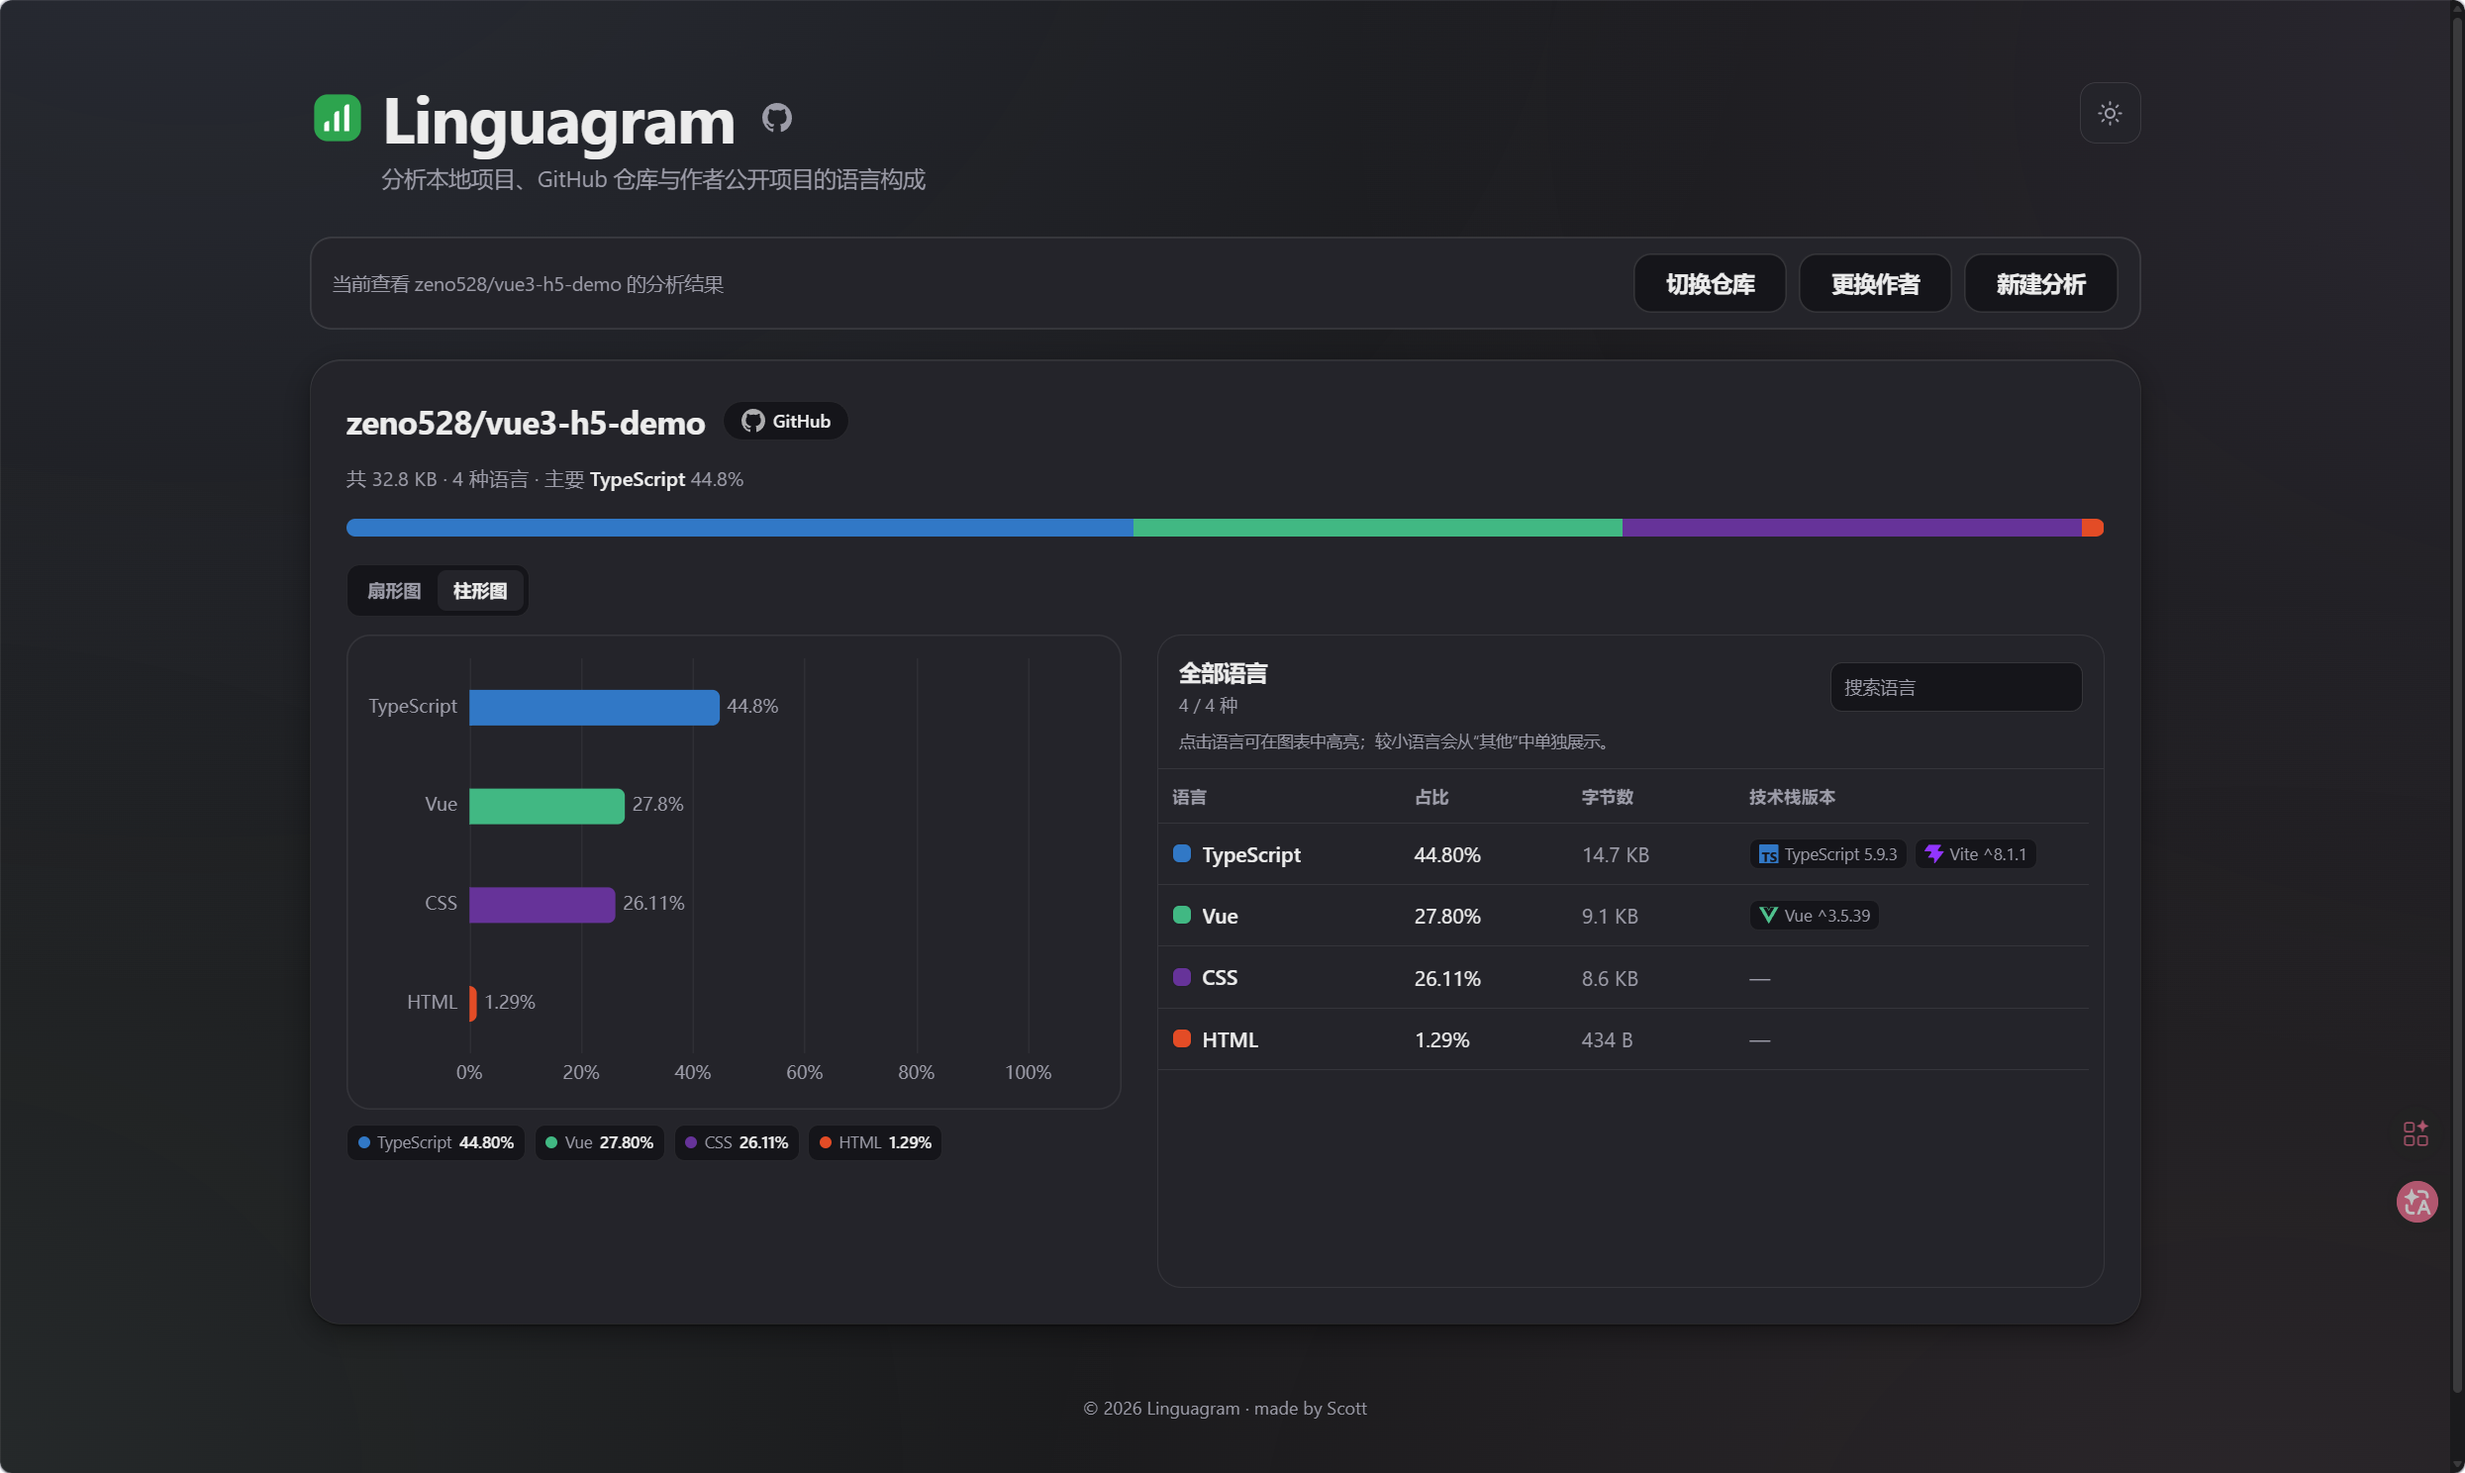
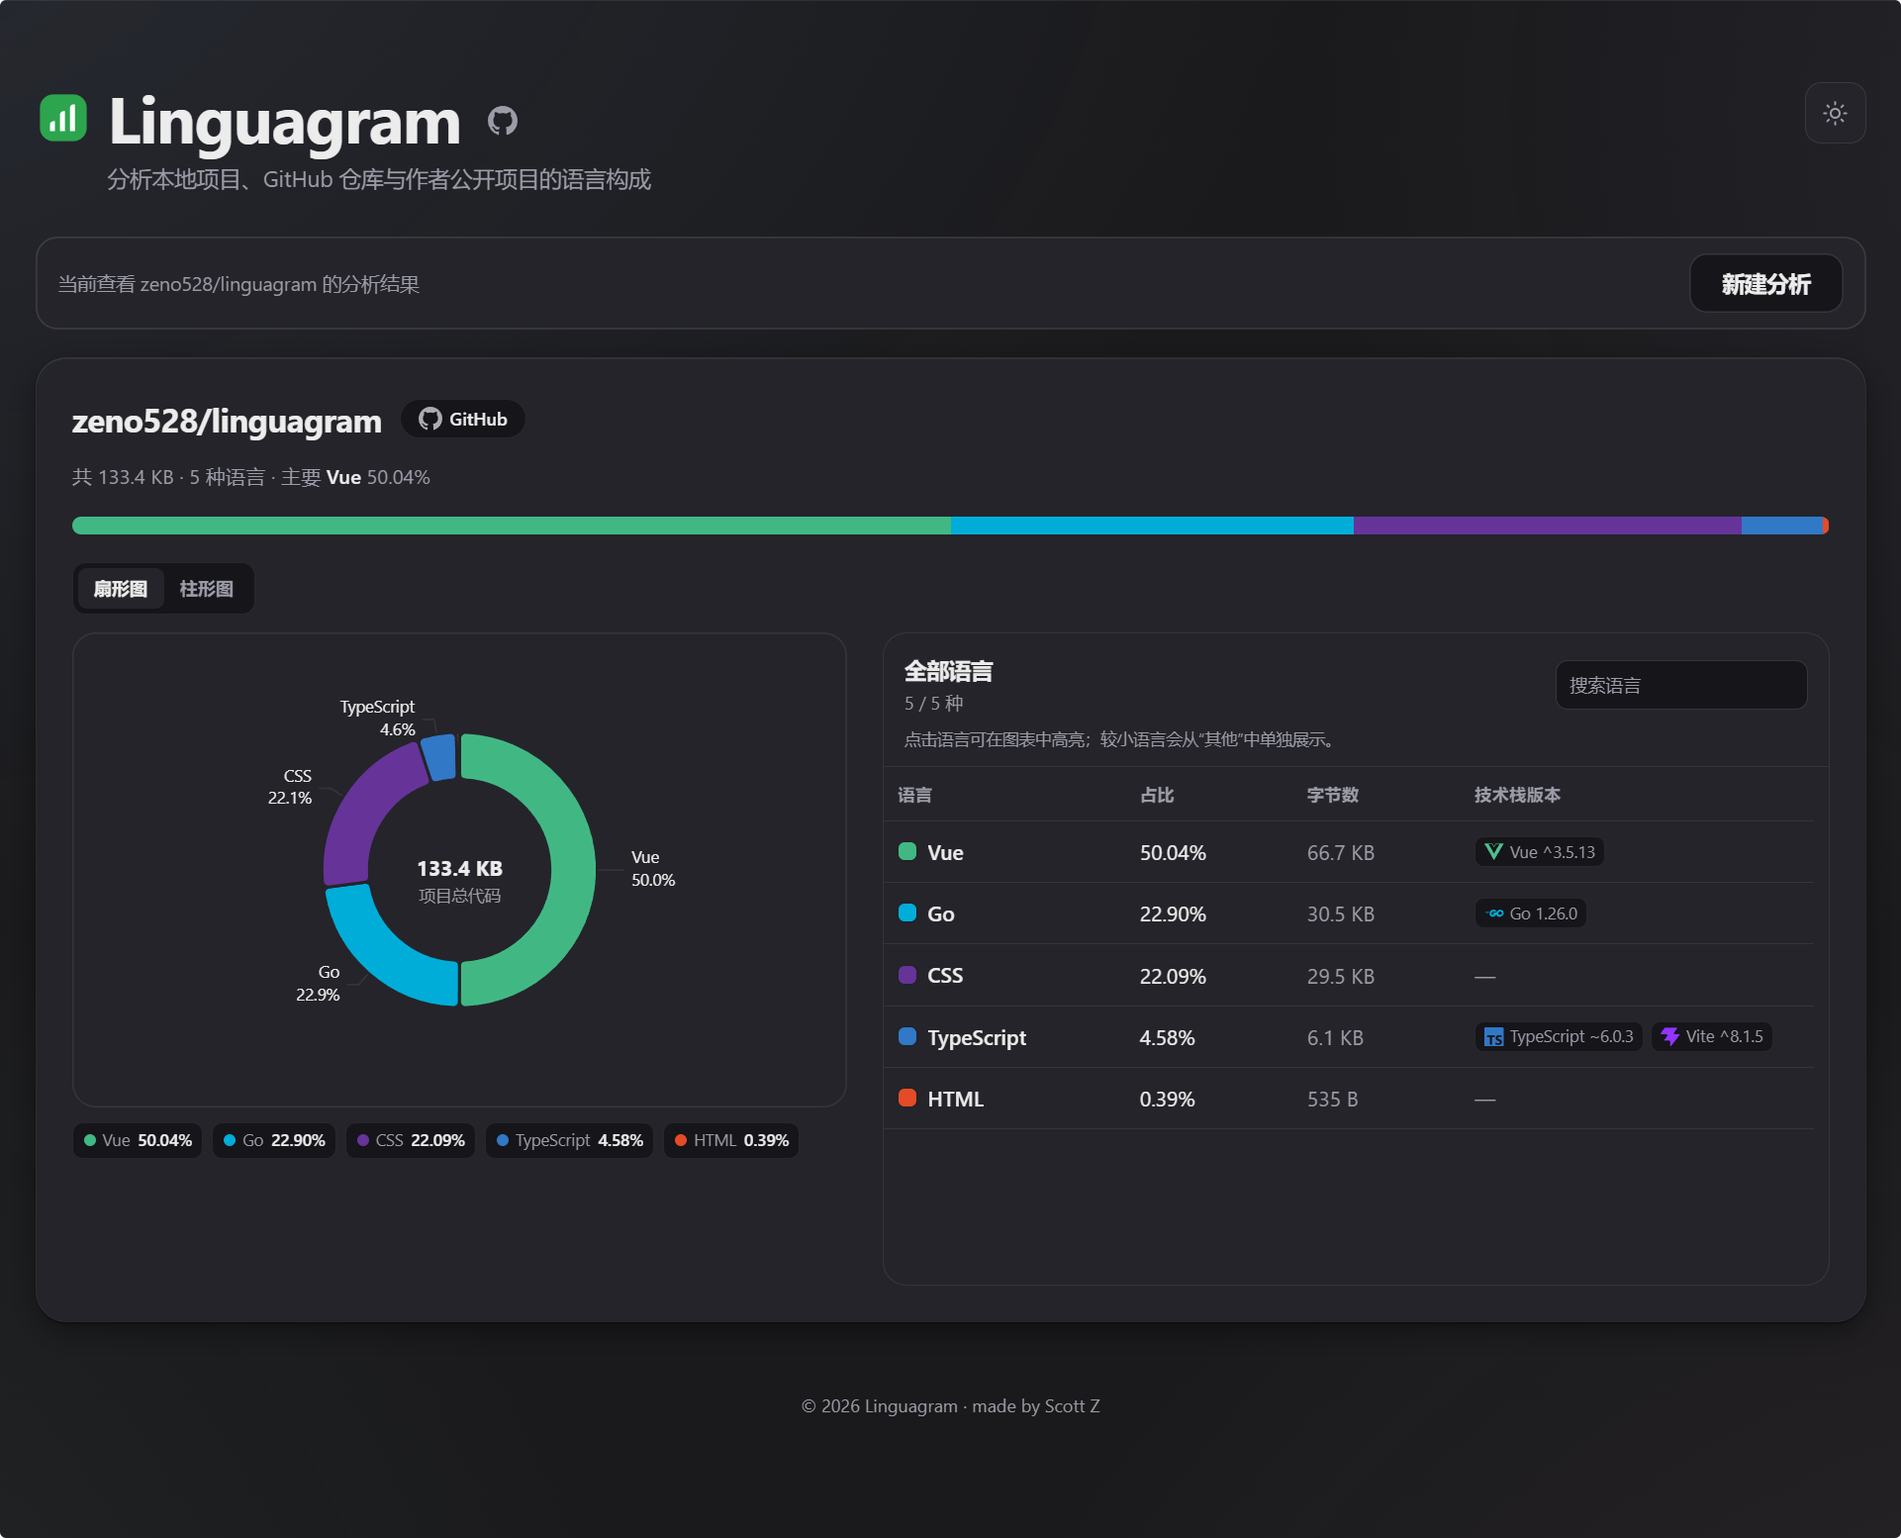
✨ feat(frontend): 增强图表中心显示逻辑，支持选中语言动态展示并注册标题组件
- 动态导入并注册 ECharts TitleComponent，支持图表标题配置。
- 重构饼图中心文本显示，改为展示所选语言的名称和百分比，而非固定主要语言。
- 移除冗余的 labelLayout 配置，简化渲染代码。

🔧 chore(docs): 更新暗色和亮色预览图片，减小文件体积

- 优化预览图片质量，docs/preview-dark.png 与 docs/preview-light.png 文件大小分别降低约 48% 与 46%。

diff --git a/frontend/src/App.vue b/frontend/src/App.vue
@@ -162,13 +162,13 @@ function loadEcharts() {
   if (!echartsPromise) {
     echartsPromise = (async () => {
       const echarts = await import('echarts/core')
-      const [{ PieChart, BarChart }, { TooltipComponent, GridComponent }, { CanvasRenderer }] =
+      const [{ PieChart, BarChart }, { TitleComponent, TooltipComponent, GridComponent }, { CanvasRenderer }] =
         await Promise.all([
           import('echarts/charts'),
           import('echarts/components'),
           import('echarts/renderers'),
         ])
-      echarts.use([PieChart, BarChart, TooltipComponent, GridComponent, CanvasRenderer])
+      echarts.use([PieChart, BarChart, TitleComponent, TooltipComponent, GridComponent, CanvasRenderer])
       return echarts
     })()
   }
@@ -902,14 +902,18 @@ async function renderChart() {
     return
   }
 
-  const primaryLanguage = displayData.reduce((primary, item) =>
-    item.value > primary.value ? item : primary,
-  )
+  const selectedLanguage = selectedChartLanguage.value
+    ? displayData.find((item) => item.name === selectedChartLanguage.value)
+    : null
+  const centerText = selectedLanguage ? selectedLanguage.name : formatBytes(result.value.totalBytes)
+  const centerSubtext = selectedLanguage
+    ? `${selectedLanguage.value.toFixed(2)}%`
+    : '项目总代码'
 
   chart.setOption({
     title: {
-      text: `${langs.length} 种语言`,
-      subtext: `主要 ${primaryLanguage.name} · ${primaryLanguage.value.toFixed(2)}%`,
+      text: centerText,
+      subtext: centerSubtext,
       left: 'center',
       top: 'center',
       itemGap: 4,
@@ -943,7 +947,6 @@ async function renderChart() {
         length2: 8,
         lineStyle: { color: hairline, width: 1 },
       },
-      labelLayout: { hideOverlap: true },
       emphasis: {
         scale: true,
         scaleSize: 8,
